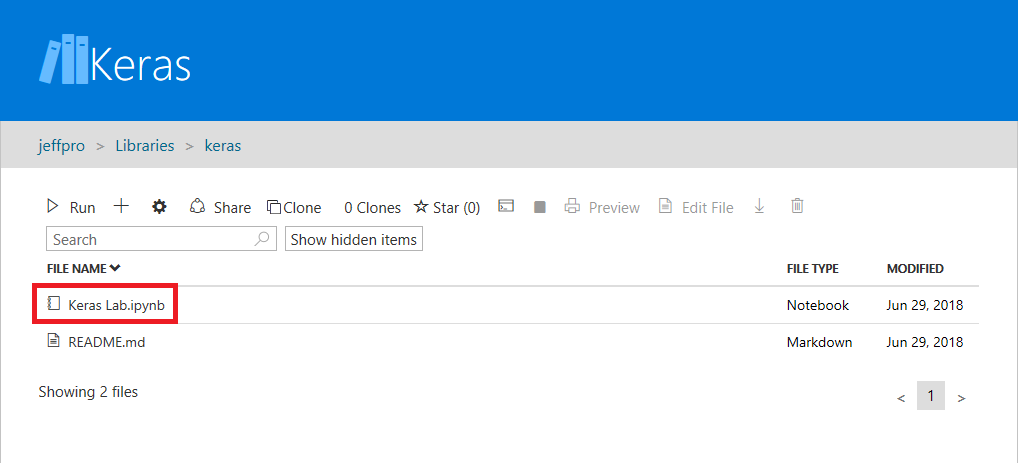
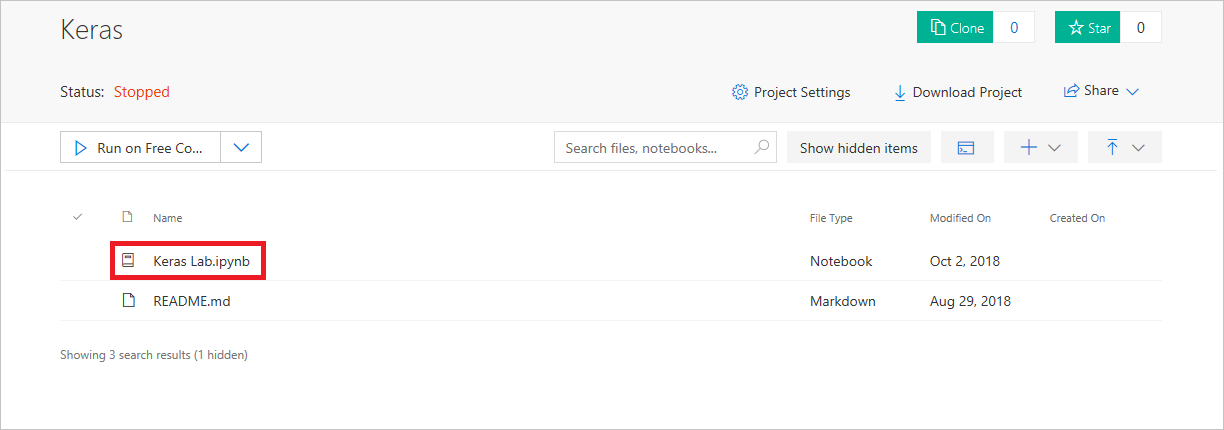
Updated Keras lab

diff --git a/Labs/AI and Machine Learning/Keras/Keras.md b/Labs/AI and Machine Learning/Keras/Keras.md
@@ -43,27 +43,23 @@ Estimated time to complete this lab: **40** minutes.
 <a name="Exercise1"></a>
 ## Exercise 1: Create an Azure notebook ##
 
-The first order of business is to create a new Azure notebook. Azure notebooks are contained in *libraries* whose primary purpose is to group related notebooks. In this exercise, you will create a new library and then create a notebook inside it.
+The first order of business is to create a new Azure notebook. Azure notebooks are contained in projects, whose primary purpose is to group related notebooks. In this exercise, you will create a new project and then create a notebook inside it.
 
-1. Navigate to https://notebooks.azure.com in your browser and sign in using your Microsoft account. Then click **Libraries**.
+1. Navigate to https://notebooks.azure.com in your browser and sign in using your Microsoft account. Click **My Projects** in the menu at the top of the page. Then click the **+ New Project** button at the top of the "My Projects" page.
 
-	![Navigating to the Libraries page](Images/add-library-1.png)
+1. Create a new project named "Keras" or something similar. You may uncheck the "Public" box if you'd like, but making the project public allows the notebooks in it to be shared with others through links, social media, or e-mail. If you're unsure which to choose, you can easily change a project to public or private later on.
 
-	_Navigating to the Libraries page_
+	![Creating a project](Images/add-project.png)
 
-1. Click **+ New Library**. Then create a new library named "Keras." You may uncheck the "Public library" box if you'd like, but making the library public allows the notebooks in it to be shared with others through links, social media, or e-mail. If you're unsure which to choose, you can easily change a notebook to public or private later on.
+	_Creating a project_
 
-	![Creating a library](Images/add-library-2.png)
+1. Click **+ New** and select **Notebook** from the menu to add a notebook to the project.
 
-	_Creating a library_
+	![Adding a notebook to the project](Images/add-notebook-1.png)
 
-1. Click the **+** sign to add a notebook to the library.
+	_Adding a notebook to the project_
 
-	![Adding a notebook to the library](Images/add-notebook-1.png)
-
-	_Adding a notebook to the library_
-
-1. Name the notebook "Keras Lab.ipynb" and select **Python 3.5 Notebook** as the item type. This will create a notebook with a Python 3.5 kernel. One of the strengths of Jupyter notebooks is that you can use different languages by choosing different kernels.
+1. Give the notebook a name such as "Keras Lab.ipynb," and select **Python 3.6** as the language. This will create a notebook with a Python 3.6 kernel for executing Python code. One of the strengths of Azure notebooks is that you can use different languages by choosing different kernels.
 
 	![Creating a notebook](Images/add-notebook-2.png)
 
@@ -71,13 +67,13 @@ The first order of business is to create a new Azure notebook. Azure notebooks a
 
 	If you're curious, the .ipynb file-name extension stands for "IPython notebook." Jupyter notebooks were originally known as IPython (Interactive Python) notebooks, and they only supported Python as a programming language. The name Jupyter is a combination of Julia, Python, and R — the core programming languages that Jupyter supports.
 
-1. Click the new notebook. This will launch the notebook and allow you to start editing it.
+1. Click the notebook to open it for editing.
 
 	![Opening the notebook](Images/open-notebook.png)
 
 	_Opening the notebook_
 
-You can create additional libraries and notebooks as you work with Azure Notebooks. You can create notebooks from scratch, or you can upload existing notebooks. In the next exercise, you will use the notebook you created to build a neural network from scratch.
+You can create additional projects and notebooks as you work with Azure Notebooks. You can create notebooks from scratch, or you can upload existing notebooks. And once a notebook is created or uploaded, you can take advantage of Azure compute resources to run the notebook and leverage popular Python libraries such as [Keras](https://keras.io/), [NumPy](http://www.numpy.org/), [Pandas](https://pandas.pydata.org/), [Matplotlib](https://matplotlib.org/), and [Scikit-learn](https://scikit-learn.org/stable/index.html).
 
 <a name="Exercise2"></a>
 ## Exercise 2: Build and train a neural network ##
